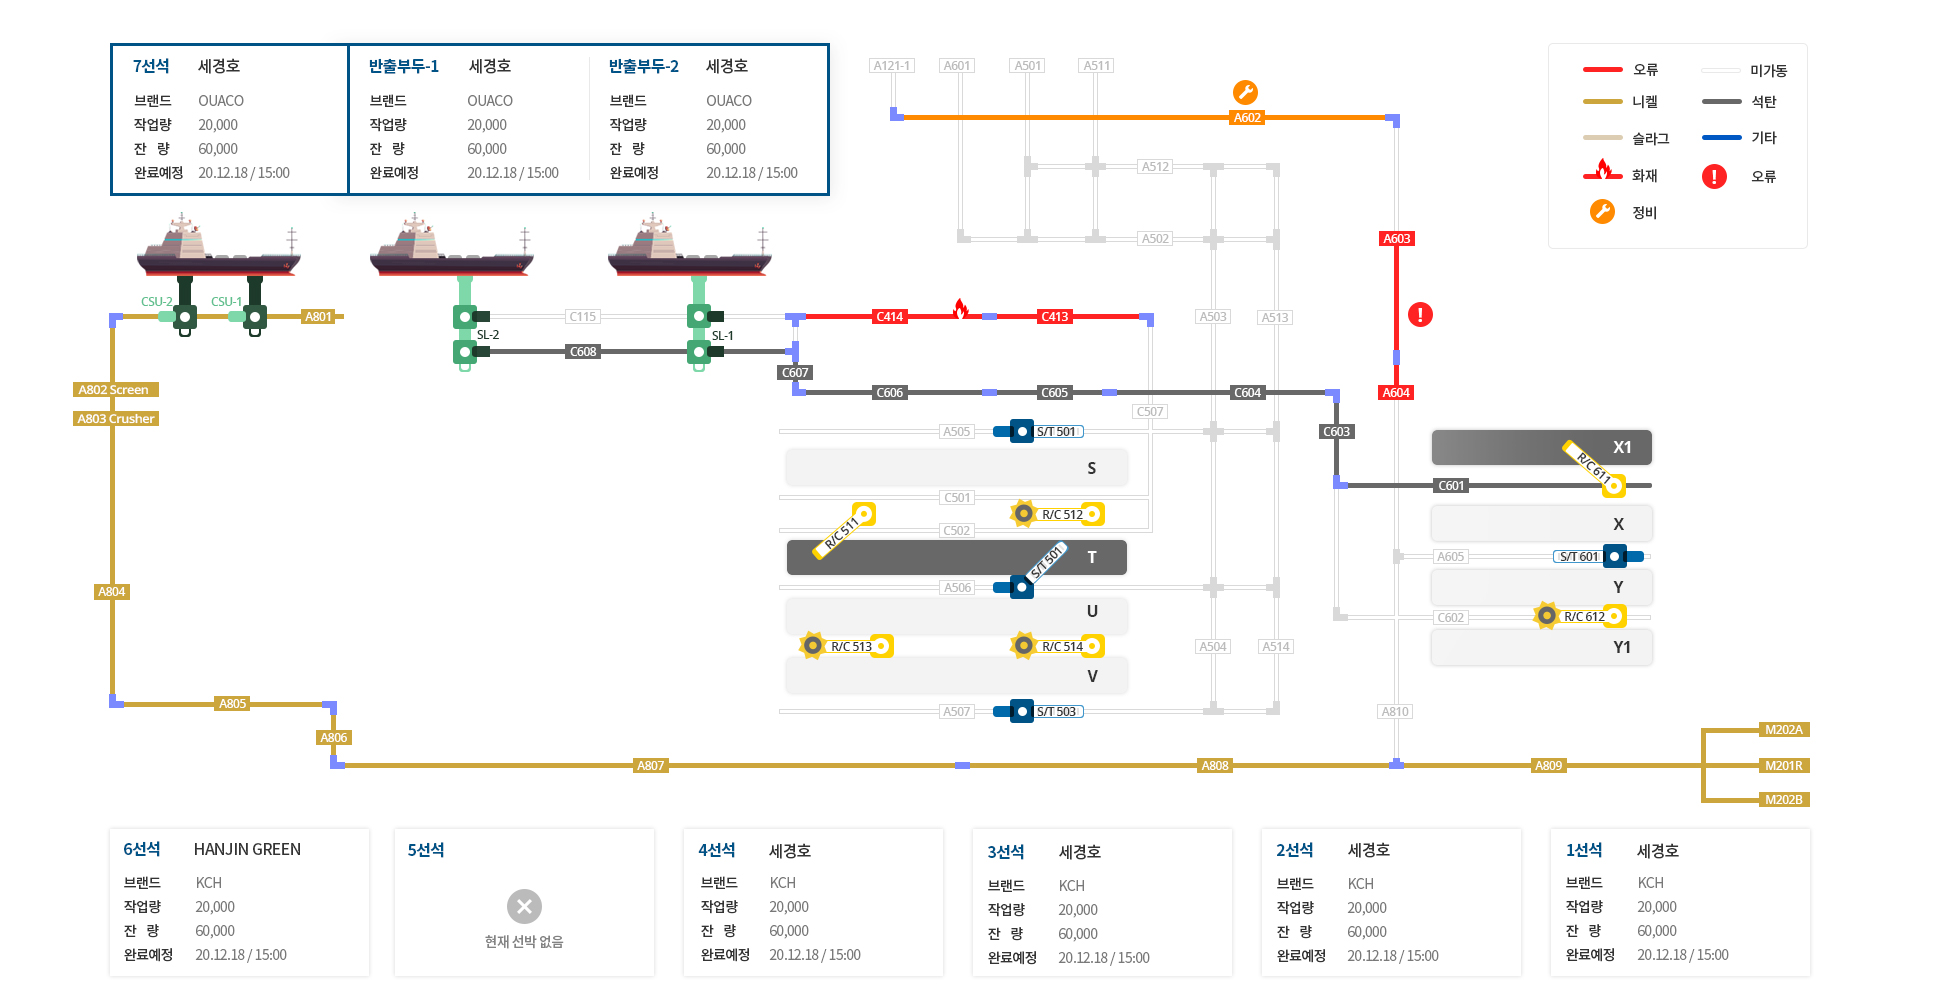
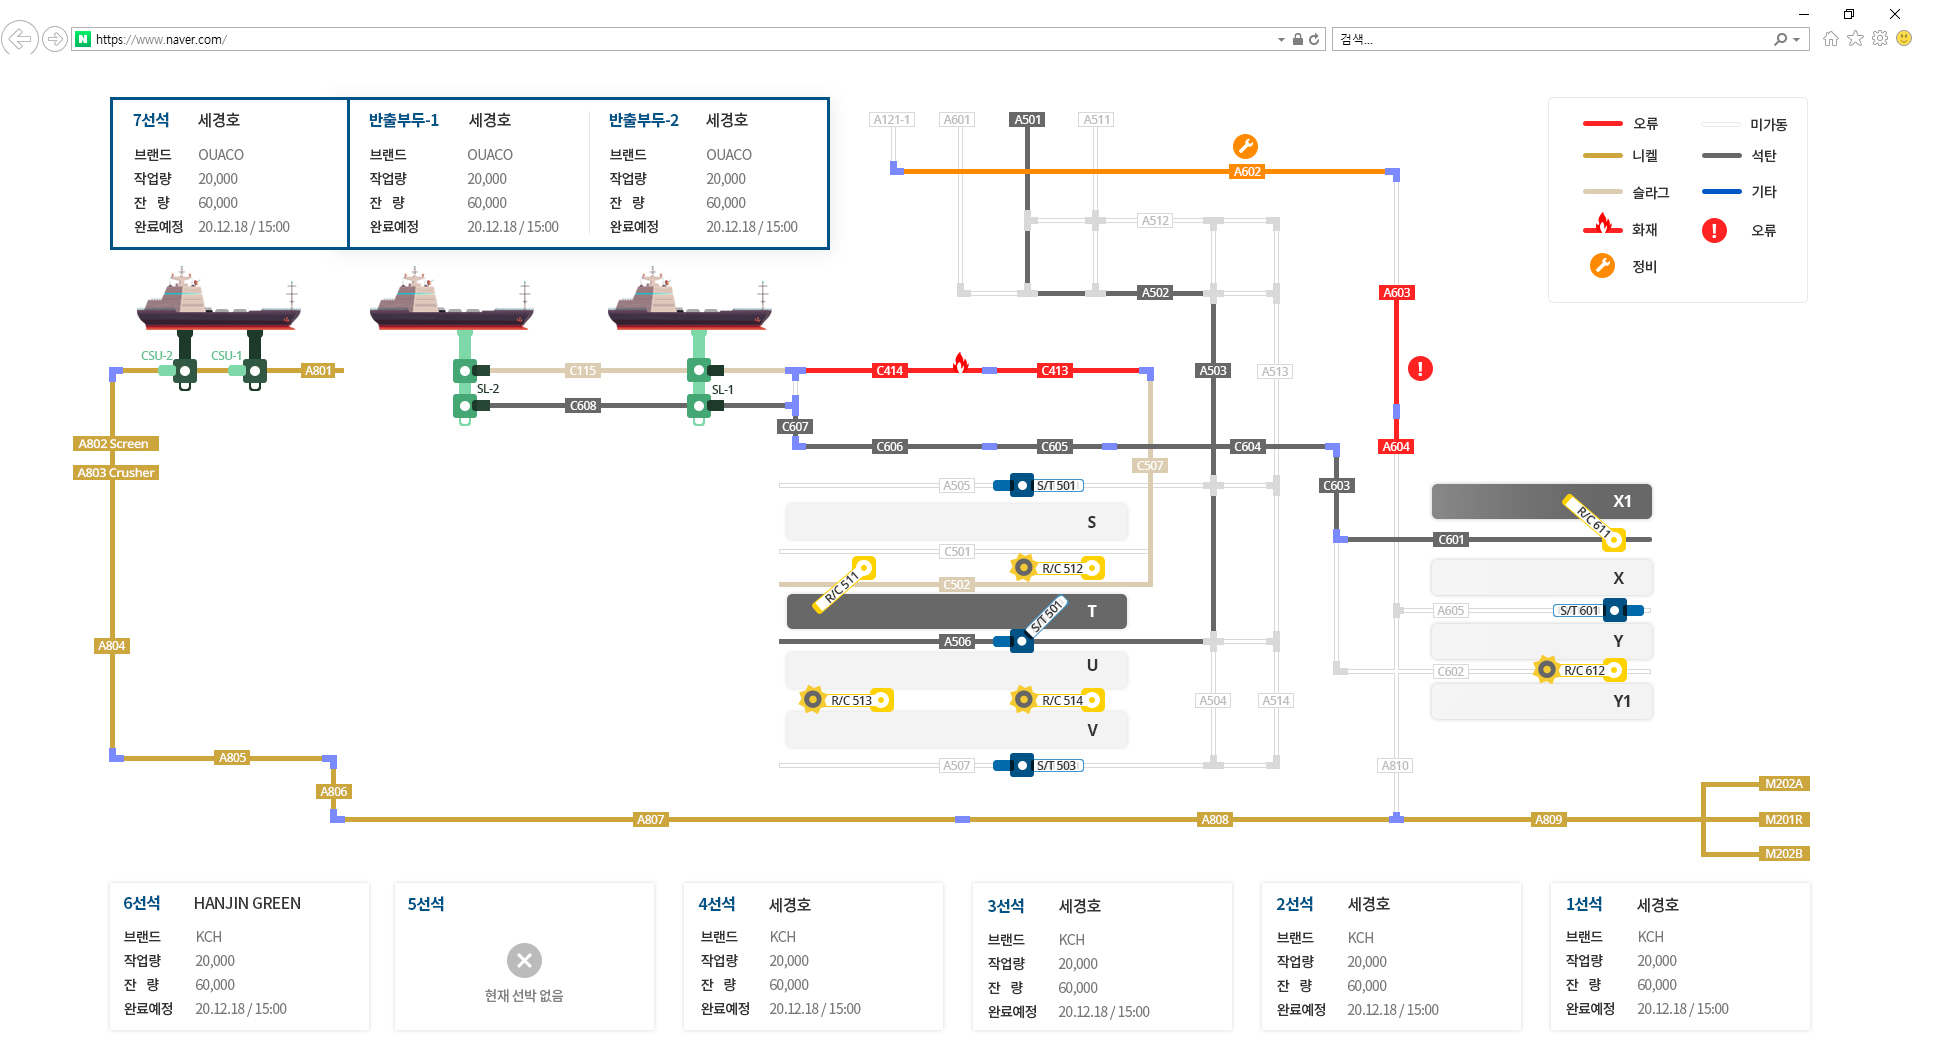
이미지 수정3차

diff --git a/index.html b/index.html
@@ -3,7 +3,7 @@
 	<body>
 		<style>
 			body{margin:0; padding:0;}
-			.main_bg{background:url('img/posco_1.jpg')no-repeat center; height:962px; width:1920px; margin:0 auto; position:relative;}
+			.main_bg{background:url('img/posco_1.jpg')no-repeat center; height:1080px; width:1920px; margin:0 auto; position:relative;}
 			.cogwheel{position:relative; width:100%; height:100%;}
 			.cogwheel p{position:absolute;}
 			.cogwheel .reclaimer_left1{left:715px; bottom:303px;}

diff --git a/view2.html b/view2.html
@@ -3,7 +3,7 @@
 	<body>
 		<style>
 			body{margin:0; padding:0;}
-			.main_bg{background:url('img/posco_2.jpg')no-repeat center; height:962px; width:1920px; margin:0 auto; position:relative;}
+			.main_bg{background:url('img/posco_2.jpg')no-repeat center; height:1080px; width:1920px; margin:0 auto; position:relative;}
 			.cogwheel{position:relative; width:100%; height:100%;}
 			.cogwheel p{position:absolute;}
 			.cogwheel .reclaimer_left1{left:715px; bottom:303px;}

diff --git a/view3.html b/view3.html
@@ -3,7 +3,7 @@
 	<body>
 		<style>
 			body{margin:0; padding:0;}
-			.main_bg{background:url('img/posco_3.jpg')no-repeat center; height:962px; width:1920px; margin:0 auto; position:relative;}
+			.main_bg{background:url('img/posco_3.jpg')no-repeat center; height:1080px; width:1920px; margin:0 auto; position:relative;}
 			.cogwheel{position:relative; width:100%; height:100%;}
 			.cogwheel p{position:absolute;}
 			.cogwheel .reclaimer_left1{left:795px; bottom:390px;}
